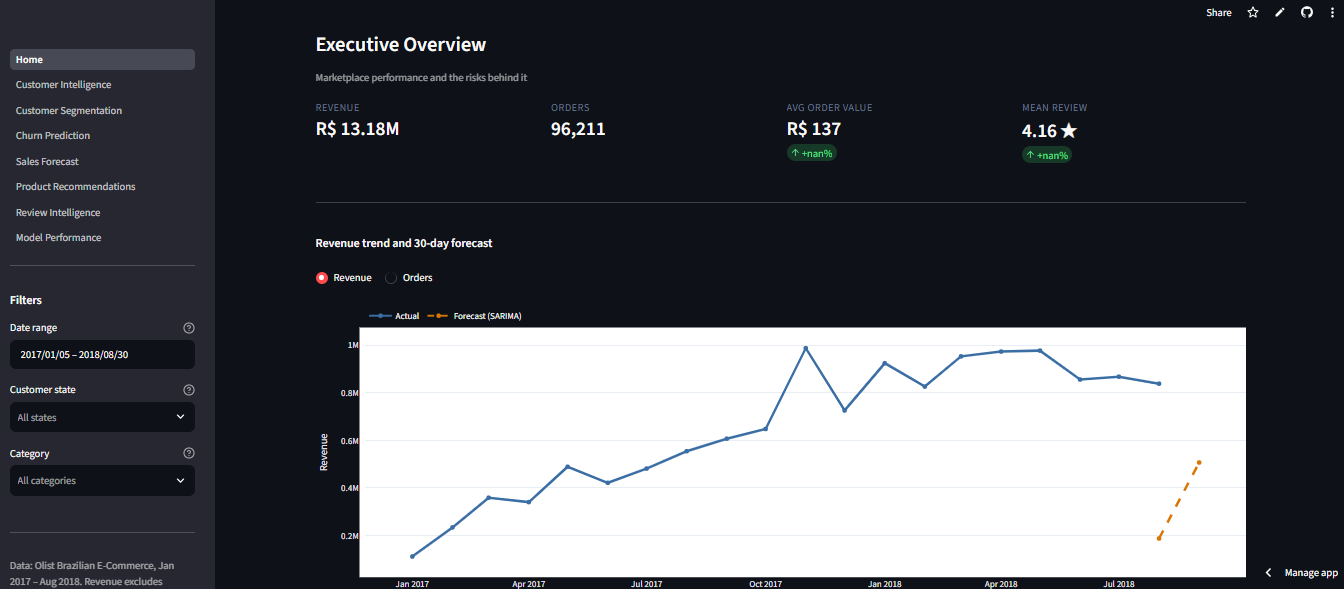
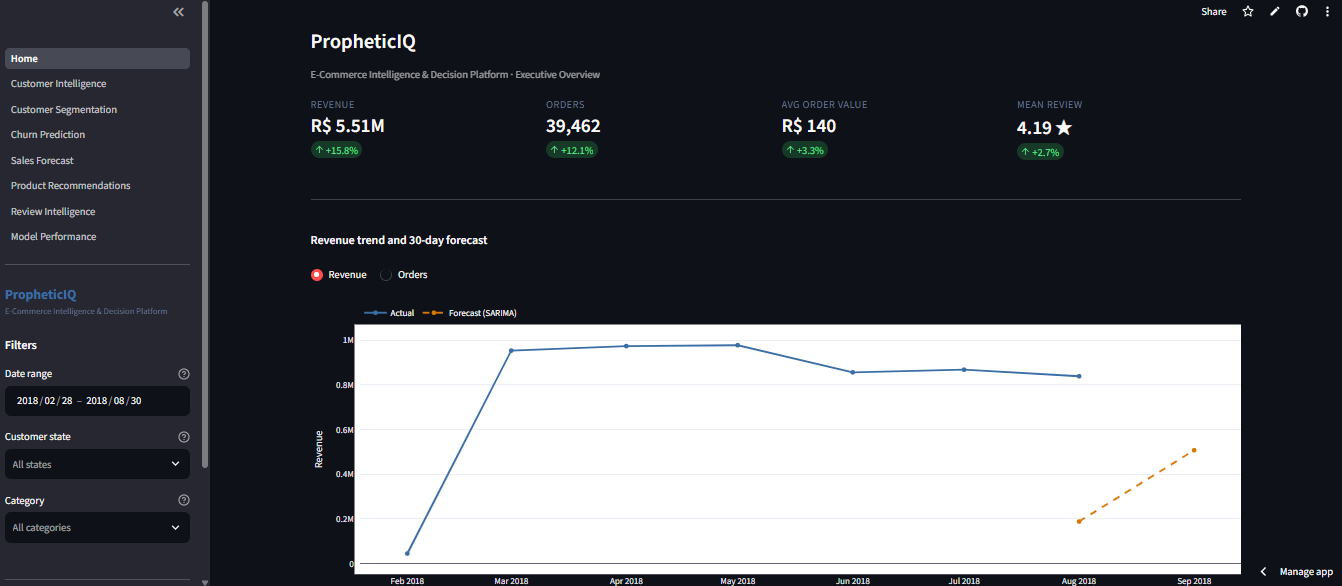
Add live URL and dashboard screenshot

diff --git a/README.md b/README.md
@@ -1,13 +1,3 @@
----
-title: PropheticIQ
-emoji: 📊
-colorFrom: blue
-colorTo: indigo
-sdk: streamlit
-app_file: app/Home.py
-pinned: false
----
-
 # PropheticIQ — E-Commerce Intelligence & Decision Platform
 
 End-to-end analytics platform on the [Olist Brazilian E-Commerce dataset](https://www.kaggle.com/datasets/olistbr/brazilian-ecommerce)
@@ -16,7 +6,9 @@ churn prediction, review-score prediction, revenue forecasting, product
 recommendation and Portuguese review NLP — served through an 8-page Streamlit
 dashboard.
 
-**Live dashboard:** _add your Streamlit Cloud URL here_
+**Live dashboard:** https://propheticiq.streamlit.app/
+
+![PropheticIQ dashboard](docs/images/dashboard.png)
 
 ---
 
